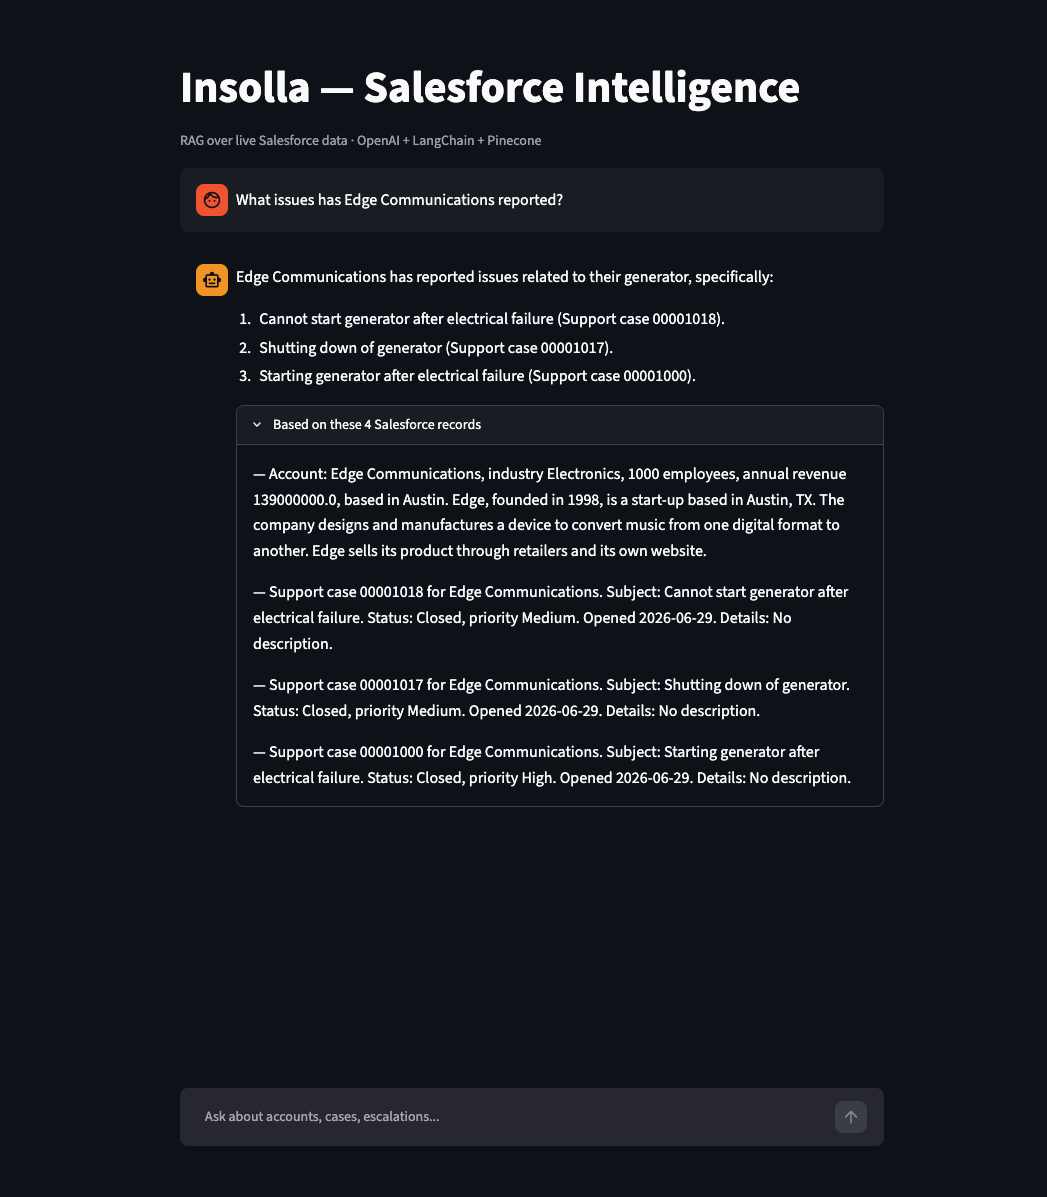
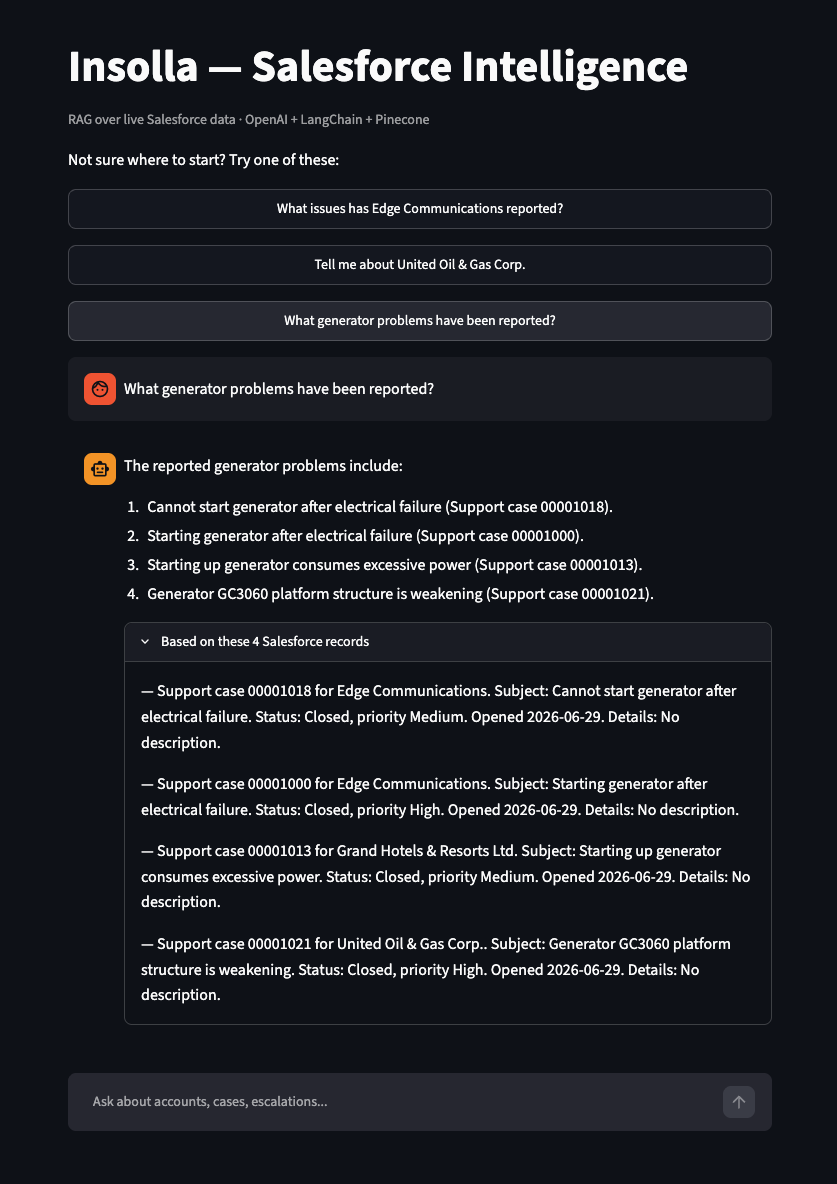
Update README screenshot and remove em dashes

diff --git a/README.md b/README.md
@@ -2,7 +2,7 @@
 
 A RAG (Retrieval-Augmented Generation) app that pulls support cases and account
 data from a Salesforce dev org, embeds it into Pinecone, and answers
-natural-language questions about it — grounded in the actual data, with
+natural-language questions about it, grounded in the actual data, with
 sources shown for every answer.
 
 **Stack:** Python · OpenAI (embeddings + chat) · LangChain · Pinecone ·
@@ -20,16 +20,16 @@ Salesforce API → JSON records → text docs → OpenAI embeddings → Pinecone
 User question → embed question → similarity search (top-k) → prompt + context → LLM → answer
 ```
 
-1. **`extract.py`** — pulls Cases and Accounts from Salesforce via SOQL.
-2. **`documents.py`** — converts each structured record into a plain-English
+1. **`extract.py`**: pulls Cases and Accounts from Salesforce via SOQL.
+2. **`documents.py`**: converts each structured record into a plain-English
    paragraph (embedding models work on natural language, not raw JSON).
-3. **`ingest.py`** — embeds every document (`text-embedding-3-small`) and
+3. **`ingest.py`**: embeds every document (`text-embedding-3-small`) and
    stores the vectors in a Pinecone index.
-4. **`rag.py`** — at question time: embed the question → retrieve the
-   nearest `k=4` document vectors → hand them to the LLM (`gpt-4o-mini`,
+4. **`rag.py`**: at question time, embed the question, retrieve the
+   nearest `k=4` document vectors, then hand them to the LLM (`gpt-4o-mini`,
    `temperature=0`) as context, with an explicit instruction not to answer
    beyond that context.
-5. **`app.py`** — Streamlit chat UI over `rag.py`, showing the retrieved
+5. **`app.py`**: Streamlit chat UI over `rag.py`, showing the retrieved
    source records alongside every answer.
 
 ## Setup
@@ -40,10 +40,10 @@ source .venv/bin/activate
 pip install -r requirements.txt
 ```
 
-Fill in `.env` (see `.env` for the required keys — OpenAI, Pinecone, and
+Fill in `.env` (see `.env` for the required keys: OpenAI, Pinecone, and
 Salesforce auth). Salesforce auth uses OAuth 2.0 JWT Bearer flow (certificate
 in `certs/`, not committed) rather than the classic username/password/security
-token combo — see "Salesforce auth" below for why.
+token combo. See "Salesforce auth" below for why.
 
 ```
 python extract.py      # pull Salesforce data → sf_data.json
@@ -55,7 +55,7 @@ streamlit run app.py    # launch the demo UI
 ## Salesforce auth: why JWT Bearer flow
 
 Salesforce has been retiring credential-based SOAP `login()` org-wide, and
-new orgs also block the OAuth 2.0 username-password flow by default — both
+new orgs also block the OAuth 2.0 username-password flow by default; both
 are being phased out in favor of provable-identity flows. This app
 authenticates via the **OAuth 2.0 JWT Bearer flow** instead: a self-signed
 certificate proves the app's identity, and no password is ever transmitted.
@@ -64,16 +64,16 @@ integrations, not just a workaround.
 
 ## What I'd do for production
 
-- **Incremental sync** — pull only records modified since the last run
+- **Incremental sync**: pull only records modified since the last run
   (`WHERE LastModifiedDate > ...`) and upsert into Pinecone, instead of a
   full re-embed every time.
-- **Retrieval evaluation** — a small labeled set of question/expected-answer
+- **Retrieval evaluation**: a small labeled set of question/expected-answer
   pairs to catch retrieval regressions when `*_to_text` formatting or `k`
   changes, rather than eyeballing answers.
-- **Cost monitoring** — track embedding + completion token usage per query;
+- **Cost monitoring**: track embedding + completion token usage per query;
   `k` directly trades off recall against both noise and per-query cost.
-- **Conversational memory** — multi-turn chat that remembers prior context
+- **Conversational memory**: multi-turn chat that remembers prior context
   (currently every question is answered independently).
-- **Broader auth** — the JWT Bearer flow here authenticates as a single
+- **Broader auth**: the JWT Bearer flow here authenticates as a single
   pre-authorized user; a multi-user production app would use full OAuth
   authorization-code flow with per-user consent.